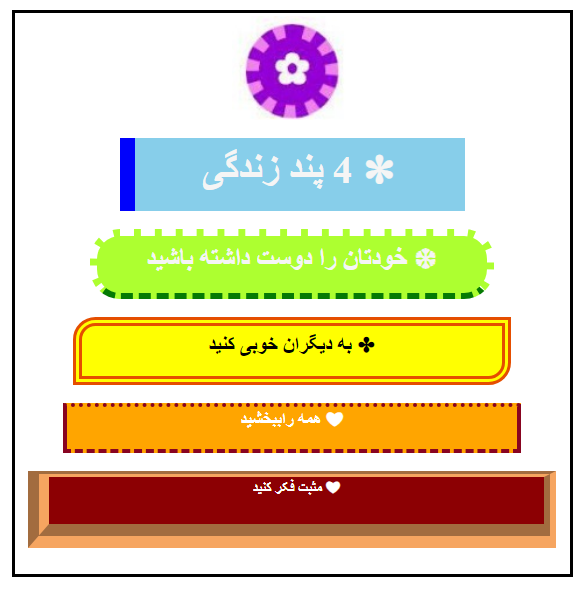
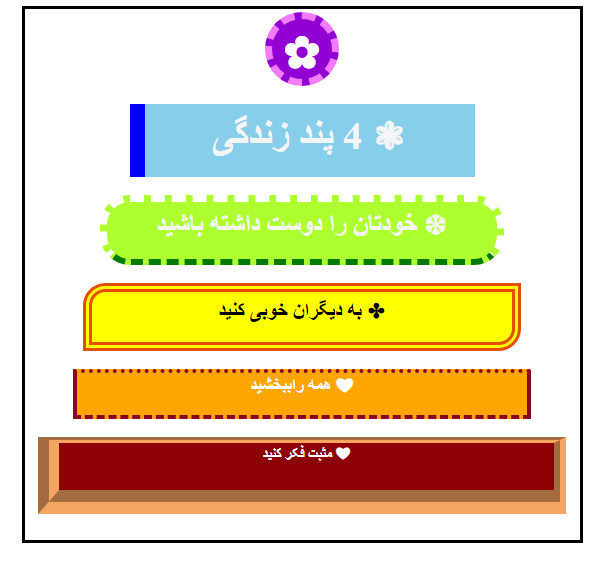
3 commit

diff --git a/CSS/Assignment-04/Assignment4.html b/CSS/Assignment-04/Assignment4.html
@@ -8,7 +8,7 @@
             text-align: center;
             background: white;
             width: 370px;
-            height: 370px;
+            height: 350px;
 
             direction: rtl;
             padding-top: 2px;
@@ -16,14 +16,30 @@
             margin: auto auto;
             border: 2px solid;
         }
+        p {
+            border-radius: 50%;
+            background-color: #9101d3;
+            margin: auto;
+            height: 40px;
+            width: 40px;
+            border-style: dashed;
+            border-color:#f17bfd ;
+            border-width:5px;
+            color: white;
+            font-size: 30px;
+            text-align: center;
+            
 
-        img {
-            margin-bottom: 8px;
+        }
+        h6 {
+            margin: 20px;
+            border-radius: 30px;
         }
 
         h1 {
             width: 200px;
             margin: auto;
+            margin-top: 12px;
             padding: 2px 10px 12px 10px;
             color: whitesmoke;
             border-left: 10px solid #0002fb;
@@ -91,8 +107,8 @@
 
 <body>
     <div>
-        <img src="image/1.jpg" width="80px">
-        <h1>✽ 4 پند زندگی</h1>
+        <p>&#10047</p>
+        <h1>&#10051 4 پند زندگی</h1>
         <h2>❆ خودتان را دوست داشته باشید</h2>
         <h3>✤ به دیگران خوبی کنید</h3>
         <h4>❤ همه راببخشید</h4>
